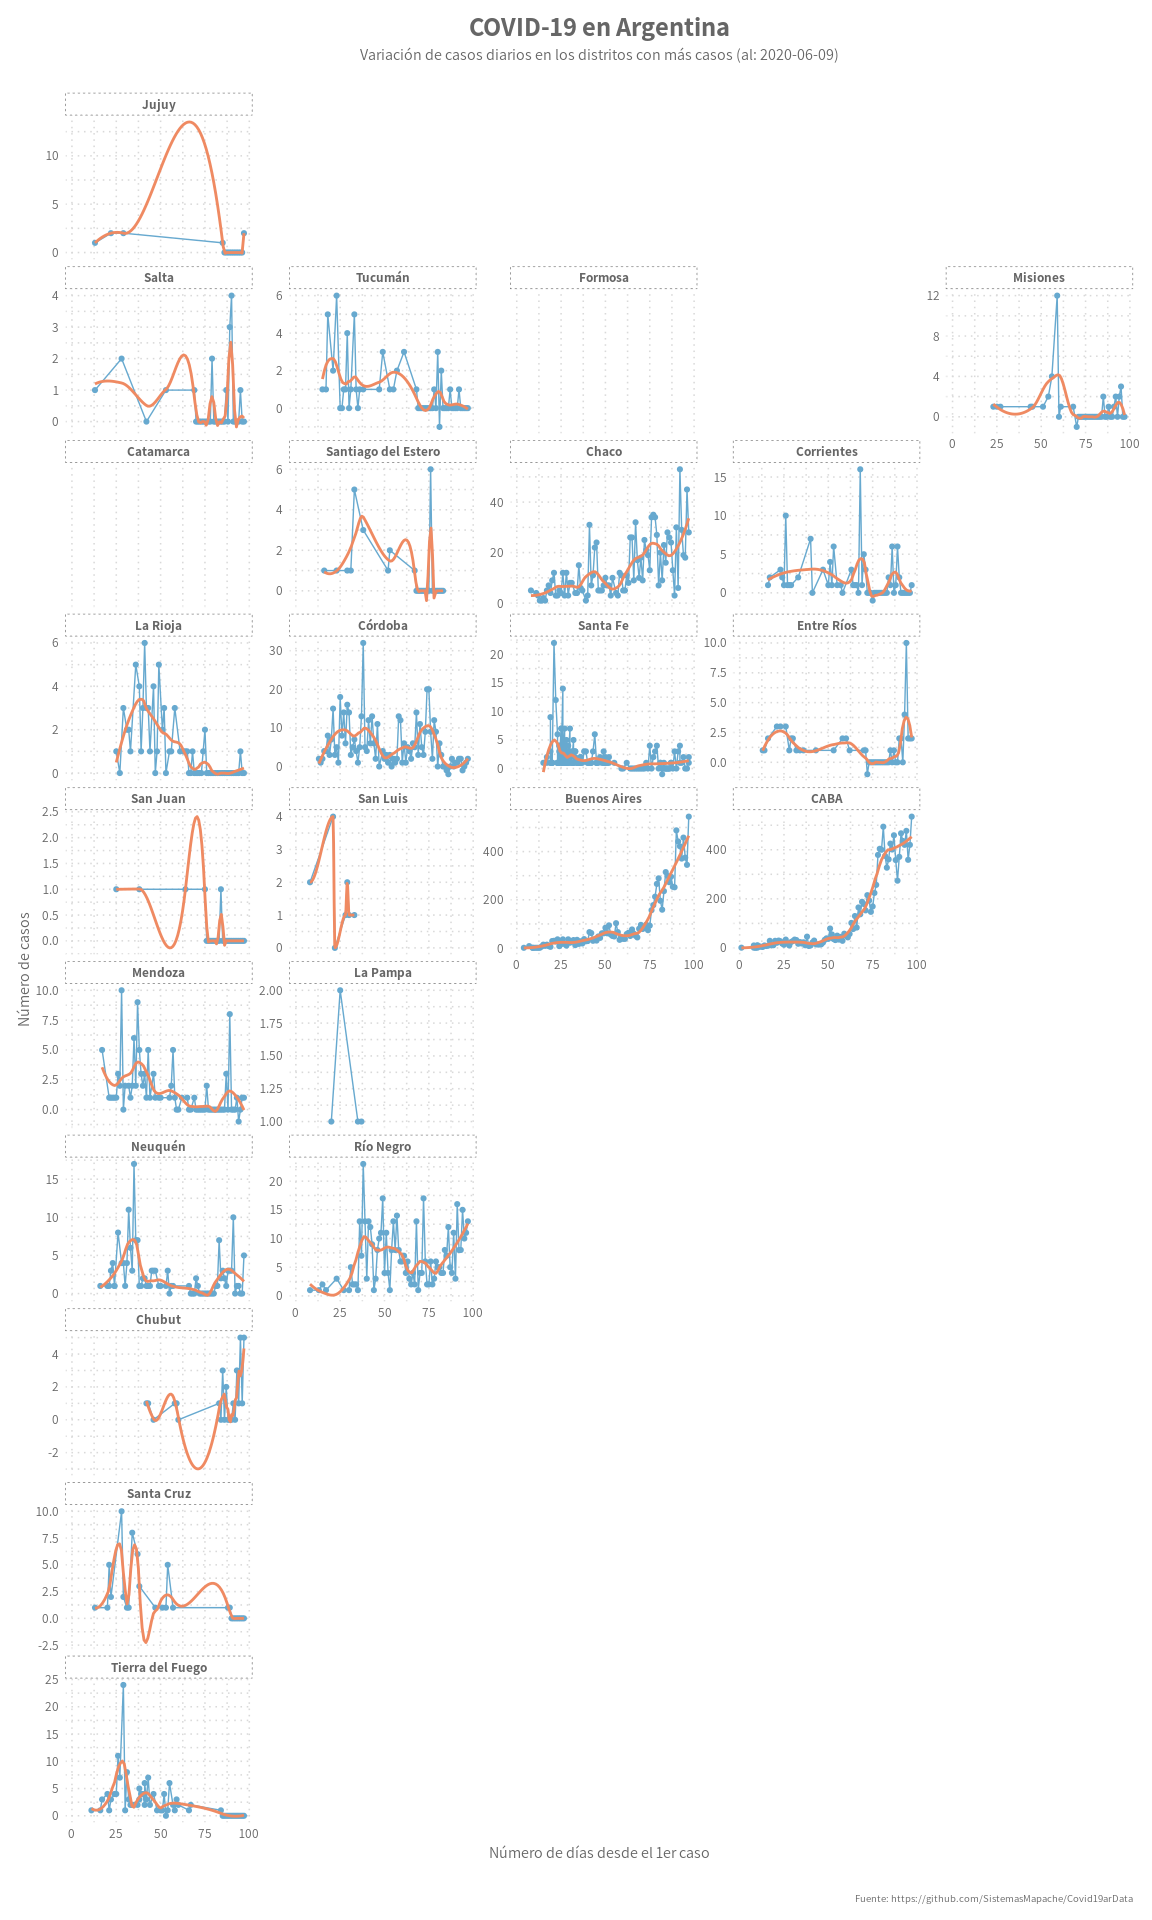
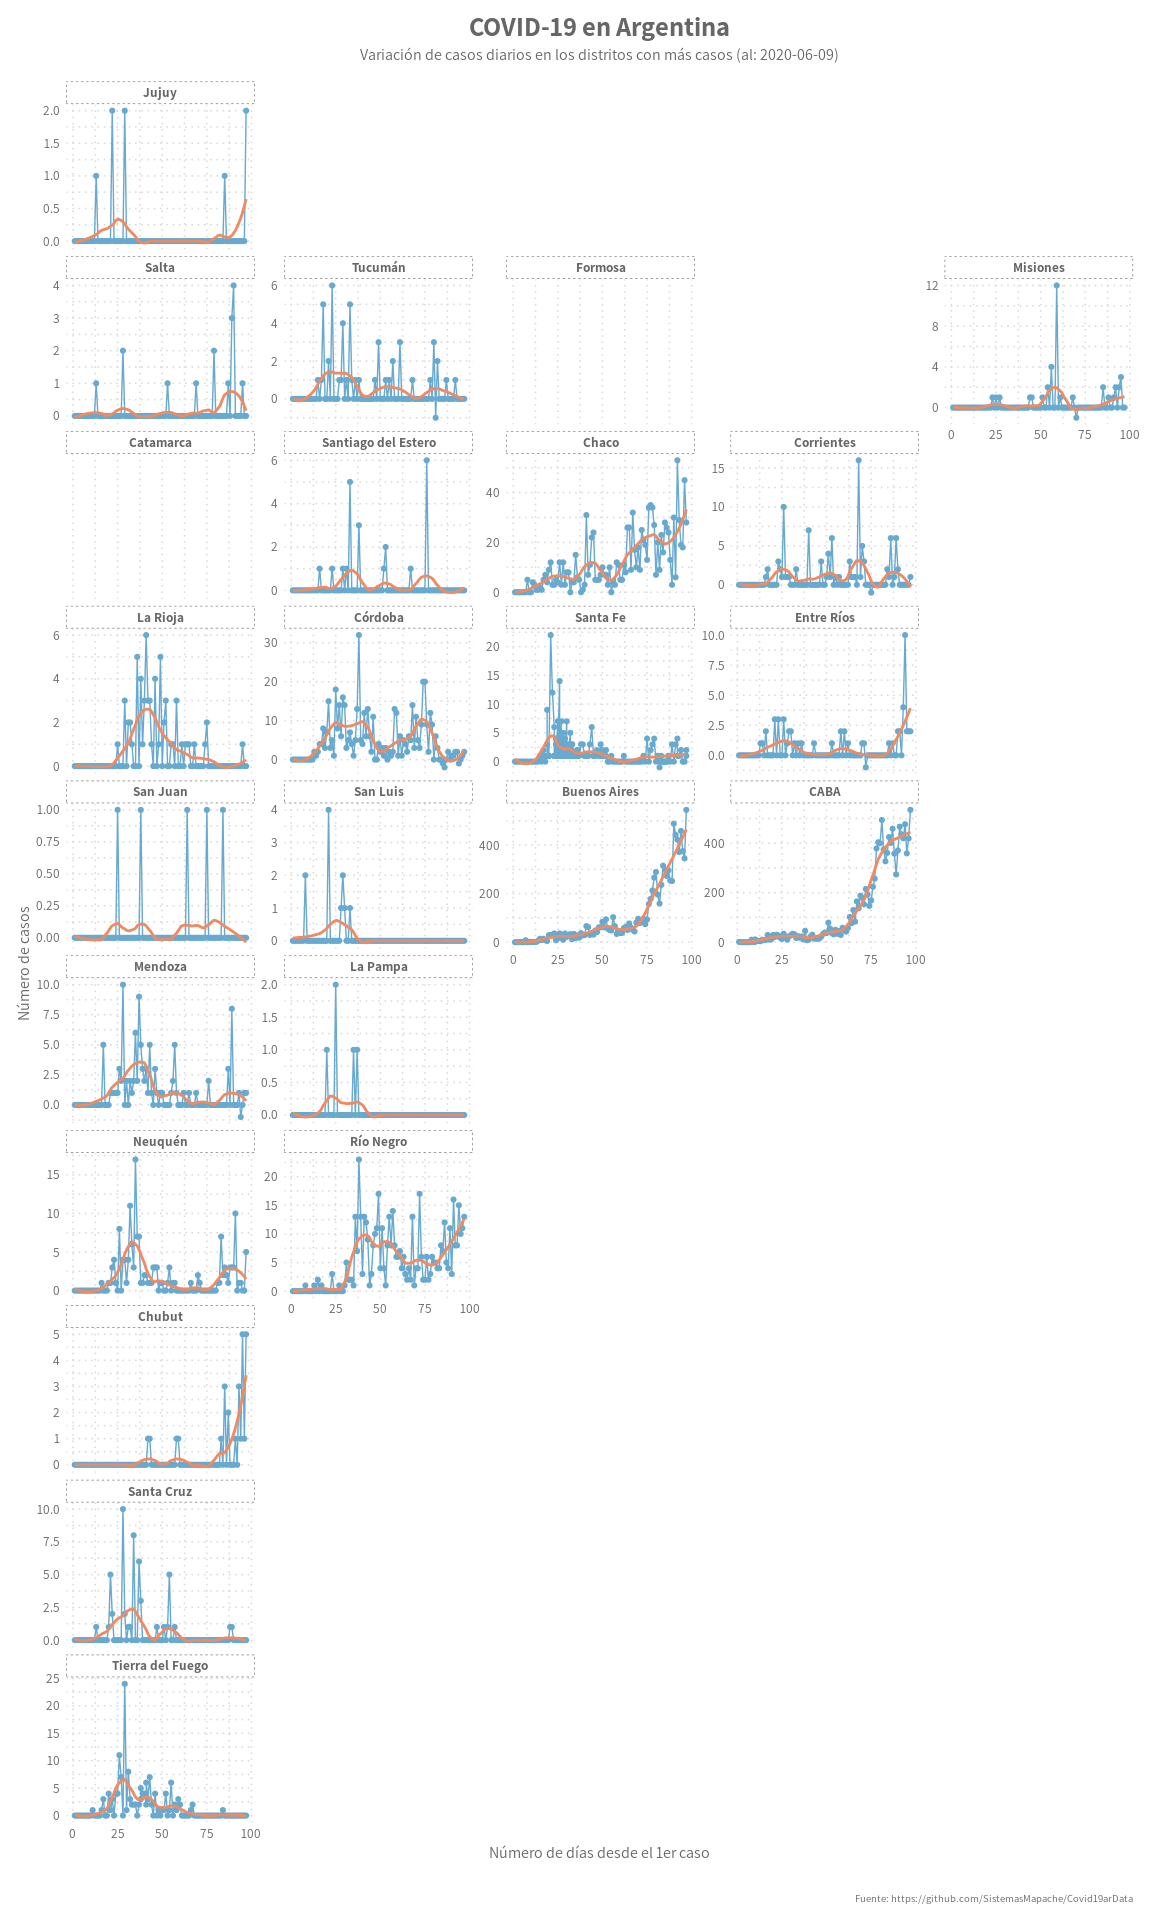
arreglos varios de 30 días de gráficos

diff --git a/_posts/2020/2020-05-24-30-dias-de-graficos-en-r.md b/_posts/2020/2020-05-24-30-dias-de-graficos-en-r.md
@@ -85,10 +85,10 @@ En lo personal, mi idea es aprovechar este desafío para:
 ## Día 1: Gráfico de barras / Columnas
 
 Una gráfica de barras o columnas, tal vez una de las más clásicas,
-muestran comparaciones numéricas entre una variable discreta y una serie
-de los valores continuos que toma cada una de estas variables discretas
-o “categorías”. A diferencia de un histograma, los gráficos de barra no
-muestran un desarrollo continuo entre las categorías.
+muestra comparaciones numéricas entre una variable discreta y los
+valores continuos que toma cada una de estas variables o “categorías”. A
+diferencia de un histograma, los gráficos de barra no muestran un
+desarrollo continuo entre las categorías.
 
 Este ejemplo muestra las diferencia de situación con respecto al
 **COVID-19** en Argentina y los países vecinos, en cuanto a cantidad de
@@ -179,9 +179,9 @@ puntos X, Y y luego se van conectando estos mediante líneas rectas.
 
 En este ejemplo, la idea es mostrar la evolución de los casos de
 **COVID-19** en las dos provincias más importantes en cantidad de casos
-de la Argentina, desde el primer infectado, el eje `x` muestra el número
-de días y el `y` la cantidad de casos detectados dicho día. Dibujamos
-puntos en cada `x,y` y luego unimos cada uno con un segmento,
+de la Argentina, desde el primer infectado (día 1), el eje `x` muestra
+el número de días y el `y` la cantidad de casos detectados dicho día.
+Dibujamos puntos en cada `x, y` y luego unimos cada uno con un segmento,
 adicionalmente agregamos una curva que refuerza la visión de la
 tendencia.
 
@@ -250,11 +250,11 @@ medio de los patrones que se forman.
 
 En este ejemplo, me pregunto sí, **¿Hay relación entre el desarrollo
 humano y la cantidad de infecciones?**, para esto armamos un gráfico de
-dispersión dónde cada país tiene un punto que correlaciona las variables
-números de infectados (`x`) y el índice de desarrollo humano (`y`),
-además agregamos unas etiquetas que marcan los países en el extremo de
-cada variable y la Argentina y una recta de regresión a modo de
-tendencia.
+dispersión dónde cada país tiene un punto que correlaciona las
+variables: números de infectados (`x`) y el índice de desarrollo humano
+(`y`), además agregamos unas etiquetas que marcan los países en el
+extremo de cada variable y la Argentina y una recta de regresión a modo
+de tendencia.
 
 ### Los datos
 
@@ -366,26 +366,30 @@ last_date <- max(as.Date(covid.data$fecha,"%d/%m/%Y"))
 
 covid.data %>% 
   mutate(fecha = as.Date(fecha, "%d/%m/%Y")) %>% 
-  select(dia=dia_inicio, distrito=osm_admin_level_4, cantidad=nue_casosconf_diff) -> data
+  select(dia=dia_inicio, distrito=osm_admin_level_4, cantidad=nue_casosconf_diff) %>% 
+  complete(distrito, dia, fill=list(cantidad=0)) %>% 
+  arrange(distrito, dia) -> data
 
 data %>% 
   inner_join(data %>% 
                group_by(distrito) %>% 
                summarize(cantidad = sum(cantidad)) %>% 
                arrange(-cantidad) %>% 
-               top_n(9), by = c("distrito"), suffix=c("",".y")) -> plot_data
+               top_n(9), by = c("distrito"), suffix=c("",".y")) %>% 
+  select(dia, distrito, cantidad) %>% 
+  arrange(dia, distrito) -> plot_data
 
 kable(head(plot_data))
 ```
 
-| dia | distrito     | cantidad | cantidad.y |
-| --: | :----------- | -------: | ---------: |
-|   1 | CABA         |        1 |      11965 |
-|   4 | Buenos Aires |        1 |       9590 |
-|   7 | Buenos Aires |        8 |       9590 |
-|   8 | CABA         |        1 |      11965 |
-|   8 | Chaco        |        5 |       1118 |
-|   8 | Río Negro    |        1 |        491 |
+| dia | distrito     | cantidad |
+| --: | :----------- | -------: |
+|   1 | Buenos Aires |        0 |
+|   1 | CABA         |        1 |
+|   1 | Chaco        |        0 |
+|   1 | Córdoba      |        0 |
+|   1 | Mendoza      |        0 |
+|   1 | Neuquén      |        0 |
 
 ### La gráfica
 
@@ -409,6 +413,12 @@ plot_data %>%
 <img src="/images/2020/2020-05-24-30-dias-de-graficos-en-r_files/figure-gfm/dia4-1.png" style="display: block; margin: auto;" />
 
 ### Una linda visualización mediante [geofaceteAR](https://github.com/electorArg/geofaceteAR):
+
+Este paquete permite facetar siguiendo la estructura geografica, en esta
+caso el de las provincias de Argentina, da una visión muy atractiva y
+clara de los datos, ya no es necesario iterar visualmente hasta
+encontrar la información de un estado, sino que accedemos a la gráfica
+de forma más directa.
 
 ``` r
 library("geofaceteAR")
@@ -437,7 +447,6 @@ data %>%
        x = "Número de días desde el 1er caso"
   ) +
   facet_geo(~ distrito, grid = argentina_grid, scales = "free_y") +
-  # facet_wrap(~ distrito, scales = "free_y") +
   theme_elegante_std(base_family = "Assistant") 
 ```
 
@@ -528,7 +537,7 @@ tbl_graph(edges=prepared.data, directed = TRUE) %>%
 Odio las donas, pero bueno, en realidad se llaman “donuts plots”, una
 variante de un clásico gráfico de torta, solo sin el centro, a
 diferencia de los últimos, los gráficos de donas, al no mostrar el área
-completa, logran que el usuario se enfoque más en la longitud de cada
+completa, logran que el usuario se enfoque más en la proporción de cada
 sector, lo cual mejora la percepción de los cambios. Además,
 eventualmente permiten usar el área del centro para agregar más
 información.
@@ -706,7 +715,7 @@ plot_data %>%
 ## Día 8: Gráfico de contornos
 
 Este tipo de gráficos básicamente une puntos x e y que comparte un mismo
-vlor de una tercer variable z, el caso típico, son los mapa
+valor de una tercer variable z, el caso típico, son los mapa
 cartográficos , cuyas lineas unen puntos de semejante altura.
 
 ``` r
@@ -747,7 +756,24 @@ covid.data %>%
   ) %>% 
   mutate(pais = ifelse(countriesAndTerritories == 'United_States_of_America', 'EEUU', countriesAndTerritories)) %>% 
   select(pais, casos, fallecidos, HDI = value) %>% 
-  mutate(pais_etiquetado = ifelse(pais %in% paises_de_interes, paste0(pais, " (casos: ", format(casos, digits=0, big.mark = ',', trim=TRUE), " hdi: ", HDI, ")"), NA)) %>% 
+  mutate(pais_etiquetado = ifelse(pais %in% paises_de_interes, paste0(pais, " (casos: ", format(casos, digits=0, big.mark = ',', trim=TRUE), " hdi: ", HDI, ")"), NA)) -> plot_data
+  
+kable(head(plot_data))
+```
+
+| pais                  | casos | fallecidos |   HDI | pais\_etiquetado |
+| :-------------------- | ----: | ---------: | ----: | :--------------- |
+| Afghanistan           | 27532 |        546 | 0.468 | NA               |
+| Albania               |  1788 |         39 | 0.716 | NA               |
+| Algeria               | 11385 |        811 | 0.717 | NA               |
+| Andorra               |   855 |         52 | 0.830 | NA               |
+| Angola                |   155 |          7 | 0.526 | NA               |
+| Antigua\_and\_Barbuda |    26 |          3 | 0.774 | NA               |
+
+### La gráfica:
+
+``` r
+plot_data %>% 
   ggplot(aes(x=HDI, y=casos)) +
   geom_point(color = "#67a9cf", alpha=.5, size=3) +
   geom_smooth(method = 'lm',formula='y ~ x', se=FALSE, color="#ef8a62") +
@@ -811,6 +837,21 @@ data %>%
 
 last_date <- max(as.Date(covid.data$fecha,"%d/%m/%Y"))
 
+kable(head(plot_data))
+```
+
+| dia | fecha      | metrica    | cantidades | maximo |
+| --: | :--------- | :--------- | ---------: | :----- |
+|   1 | 2020-03-02 | casos      |          1 | NA     |
+|   1 | 2020-03-02 | fallecidos |          0 | NA     |
+|   2 | 2020-03-03 | casos      |          0 | NA     |
+|   2 | 2020-03-03 | fallecidos |          0 | NA     |
+|   3 | 2020-03-04 | casos      |          0 | NA     |
+|   3 | 2020-03-04 | fallecidos |          0 | NA     |
+
+### La gráfica:
+
+``` r
 plot_data %>% 
   ggplot(aes(x=dia, y=cantidades, fill=metrica, color=metrica)) + 
   geom_area(alpha=0.6 , size=1) +
@@ -932,7 +973,24 @@ dias %>%
          s_roll_casos_3 = replace_na((roll_casos_3-min(roll_casos_3))/(max(roll_casos_3)-min(roll_casos_3)),0),
          label_casos = casos
   ) %>% 
-  filter(dia >= ndias - dias_ventana ) %>% 
+  filter(dia >= ndias - dias_ventana ) -> plot_data
+
+kable(head(plot_data))
+```
+
+| dia | distrito     | fecha      | casos | roll\_casos\_3 | s\_roll\_casos\_3 | label\_casos |
+| --: | :----------- | :--------- | ----: | -------------: | ----------------: | -----------: |
+|  83 | Buenos Aires | 2020-05-23 |   236 |       197.0000 |         0.4371302 |          236 |
+|  84 | Buenos Aires | 2020-05-24 |   315 |       236.6667 |         0.5251479 |          315 |
+|  85 | Buenos Aires | 2020-05-25 |   299 |       283.3333 |         0.6286982 |          299 |
+|  86 | Buenos Aires | 2020-05-26 |   273 |       295.6667 |         0.6560651 |          273 |
+|  87 | Buenos Aires | 2020-05-27 |   296 |       289.3333 |         0.6420118 |          296 |
+|  88 | Buenos Aires | 2020-05-28 |   254 |       274.3333 |         0.6087278 |          254 |
+
+### La gráfica:
+
+``` r
+plot_data %>% 
   ggplot(aes(x = dia, y =   fct_reorder(distrito, casos), fill = s_roll_casos_3)) + 
     geom_tile(colour="gray80", size=0.2) +
     geom_text(aes(label=label_casos, color = s_roll_casos_3 > .7)) +
@@ -987,7 +1045,24 @@ media_fallecidos <- mean(data$fallecidos)
 data %>% 
   filter(nr <= 50) %>% 
   mutate(sobre_media = casos > media_casos,
-         pais = paste0(countrycode(code_pais, origin = 'iso3c', destination = 'un.name.es'), " (", nr, ")")) %>% 
+         pais = paste0(countrycode(code_pais, origin = 'iso3c', destination = 'un.name.es'), " (", nr, ")")) -> plot_data
+
+kable(head(plot_data))
+```
+
+| code\_pais |   casos | fallecidos | nr | sobre\_media | pais                                                |
+| :--------- | ------: | ---------: | -: | :----------- | :-------------------------------------------------- |
+| USA        | 2191052 |     118434 |  1 | TRUE         | Estados Unidos de América (1)                       |
+| BRA        |  978142 |      47748 |  2 | TRUE         | Brasil (2)                                          |
+| RUS        |  561091 |       7790 |  3 | TRUE         | Federación de Rusia (3)                             |
+| IND        |  380532 |      12573 |  4 | TRUE         | India (4)                                           |
+| GBR        |  300469 |      42288 |  5 | TRUE         | Reino Unido de Gran Bretaña e Irlanda del Norte (5) |
+| ESP        |  245268 |         NA |  6 | TRUE         | España (6)                                          |
+
+### La gráfica:
+
+``` r
+plot_data %>% 
   ggplot(aes(x=fct_reorder(pais, -nr), y=casos, color = sobre_media)) +
   geom_segment(aes( y=0 , xend = pais, yend = casos)) + 
   geom_point() +
@@ -1009,7 +1084,7 @@ data %>%
   theme_elegante_std(base_family = "Assistant") 
 ```
 
-<img src="/images/2020/2020-05-24-30-dias-de-graficos-en-r_files/figure-gfm/dia12-1.png" style="display: block; margin: auto;" />
+<img src="/images/2020/2020-05-24-30-dias-de-graficos-en-r_files/figure-gfm/dia12-data-1.png" style="display: block; margin: auto;" />
 
 ## Día 13: Serie temporal
 
@@ -1037,6 +1112,22 @@ presidencias <- data.frame(fecha = as.Date(c('2019-12-10', '2015-12-10')), presi
 dolar <- readRDS(url("https://github.com/pmoracho/R/raw/master/data/dolar.Rda","rb"))
 
 dolar$indice_tiempo = as.Date(dolar$indice_tiempo, format = "%Y-%m-%d")
+
+kable(head(dolar))
+```
+
+| indice\_tiempo | tipo\_cambio\_bna\_vendedor |
+| :------------- | --------------------------: |
+| 2014-11-03     |                        8.49 |
+| 2014-11-04     |                        8.51 |
+| 2014-11-05     |                        8.51 |
+| 2014-11-06     |                        8.51 |
+| 2014-11-07     |                        8.51 |
+| 2014-11-08     |                        8.51 |
+
+### La gráfica:
+
+``` r
 dolar %>% 
   ggplot(mapping = aes(x=indice_tiempo, y=tipo_cambio_bna_vendedor)) + 
   geom_line(size = 1, color="#67a9cf") +
@@ -1110,8 +1201,24 @@ dias %>%
   group_by(distrito) %>% 
   summarise(casos = sum(casos)) %>% 
   arrange(-casos) %>% 
-  mutate(porc = cumsum(casos/sum(casos))) %>% 
+  mutate(porc = cumsum(casos/sum(casos))) -> plot_data
 
+kable(head(plot_data))
+```
+
+| distrito     | casos |      porc |
+| :----------- | ----: | --------: |
+| CABA         | 11965 | 0.4832001 |
+| Buenos Aires |  9590 | 0.8704870 |
+| Chaco        |  1118 | 0.9156369 |
+| Río Negro    |   491 | 0.9354656 |
+| Córdoba      |   466 | 0.9542848 |
+| Santa Fe     |   279 | 0.9655521 |
+
+### La gráfica:
+
+``` r
+plot_data %>%   
   ggplot(aes(area = casos, fill = casos, label=paste0(distrito, ": ", format(casos, big.mark = ".", decimal.mark = ",")),
              subgroup = ifelse(porc <= .95, "95%", ""))) +
   geom_treemap() +
@@ -1383,15 +1490,8 @@ covid.data %>%
        caption = "Fuente: datos.gob.ar",
        y = "",
        x = "") 
-```
-
-<img src="/images/2020/2020-05-24-30-dias-de-graficos-en-r_files/figure-gfm/dia16-1.png" style="display: block; margin: auto;" />
-
-``` r
   2# theme(axis.text.x=element_blank())
 ```
-
-    ## [1] 2
 
 ## Día 17: Un Sankey o Alluvial
 
@@ -2176,10 +2276,12 @@ system(paste0('ffmpeg -y -ss 30 -t 3 -i ', getwd(), '/dia27.mp4', '-vf "fps=10,s
 
 ## Día 28: Diagramas de cuerdas
 
-Los gráficos animados son una muy útil herramienta para visualizar la
-evolución de variables, por lo general en el tiempo. En este ejemplo,
-transformo una de las anteriores gráficas (lollipop) en una gráfica
-animada.
+Los diagramas de cuerda se usan para mostrar relaciones entre entidades
+(variables categoricas), la importancia de esa relación puede estar
+definido por una variable continua. De alguna manera es una variante de
+los diagramas de redes, pero organizado de forma circular. Este tipo de
+diagramas se popularizado en 2007 gracias a su uso en las infografías
+presentadas por el New York Times sobre el genoma humano.
 
 NOTA: Con este lamentablemente se murió la esperanza de resolver todo
 gon **ggplot2**
@@ -2220,16 +2322,20 @@ covid.data %>%
   ) %>% 
   group_by(clasif_edad, sexo, internado, fallecido) %>% 
   summarise(n = n()) -> plot_data
+
+kable(head(plot_data))
 ```
 
-### La gráfica:
+| clasif\_edad | sexo      | internado   | fallecido  |   n |
+| :----------- | :-------- | :---------- | :--------- | --: |
+| 0 a 6        | Femenino  | Ambulatorio | Recuperado | 366 |
+| 0 a 6        | Femenino  | Internado   | Recuperado | 153 |
+| 0 a 6        | Masculino | Ambulatorio | Recuperado | 416 |
+| 0 a 6        | Masculino | Internado   | Recuperado | 165 |
+| 7 a 14       | Femenino  | Ambulatorio | Recuperado | 552 |
+| 7 a 14       | Femenino  | Internado   | Recuperado | 153 |
 
-Los diagramas de cuerda se usan para mostrar relaciones entre entidades
-(variables categoricas), la importancia de esa relación puede estar
-definido por una variable continua. De alguna manera es una variante de
-los diagramas de redes, pero organizado de forma circular. Este tipo de
-diagramas se popularizado en 2007 gracias a su uso en las infografías
-presentadas por el New York Times sobre el genoma humano.
+### La gráfica:
 
 ``` r
 plot_data %>% 
